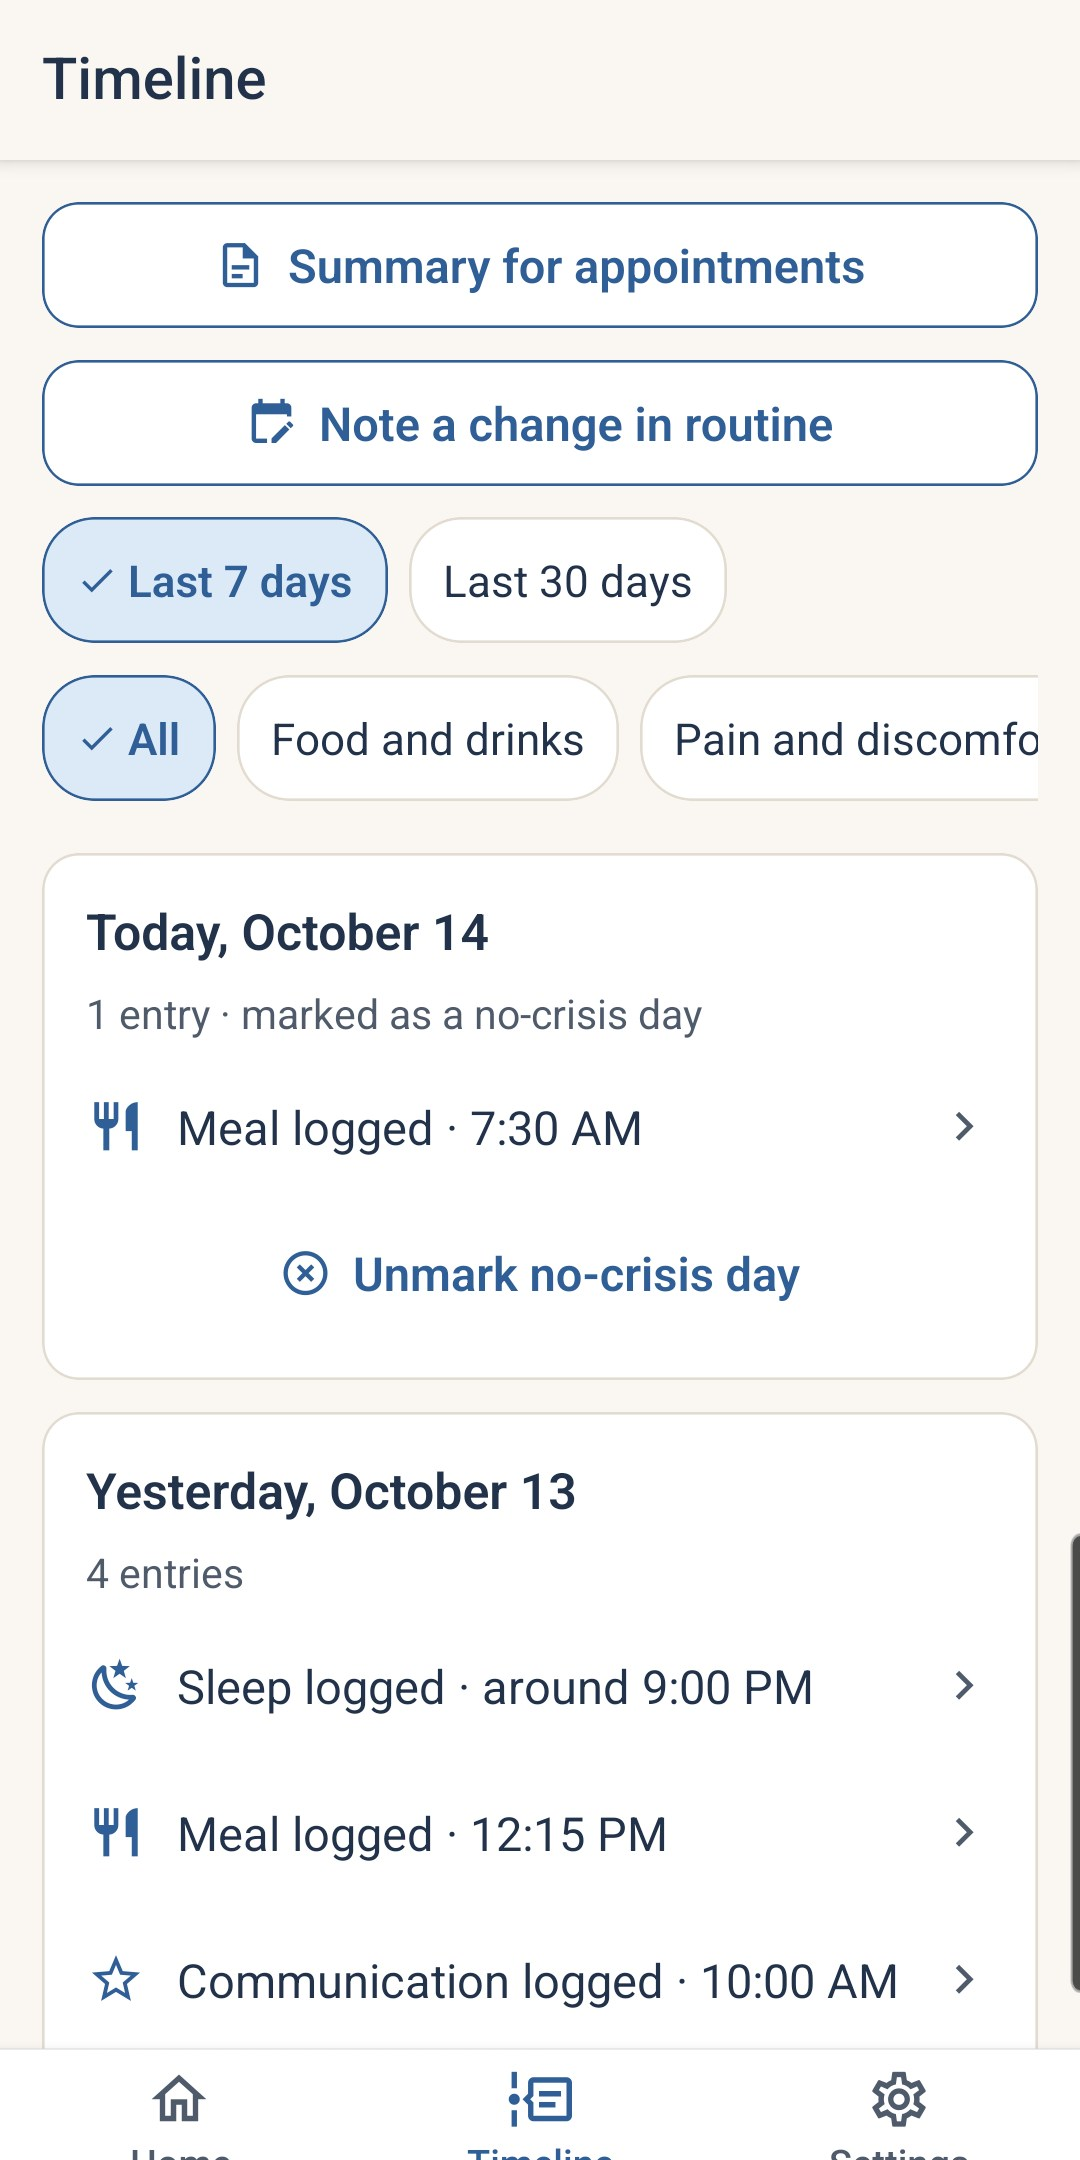
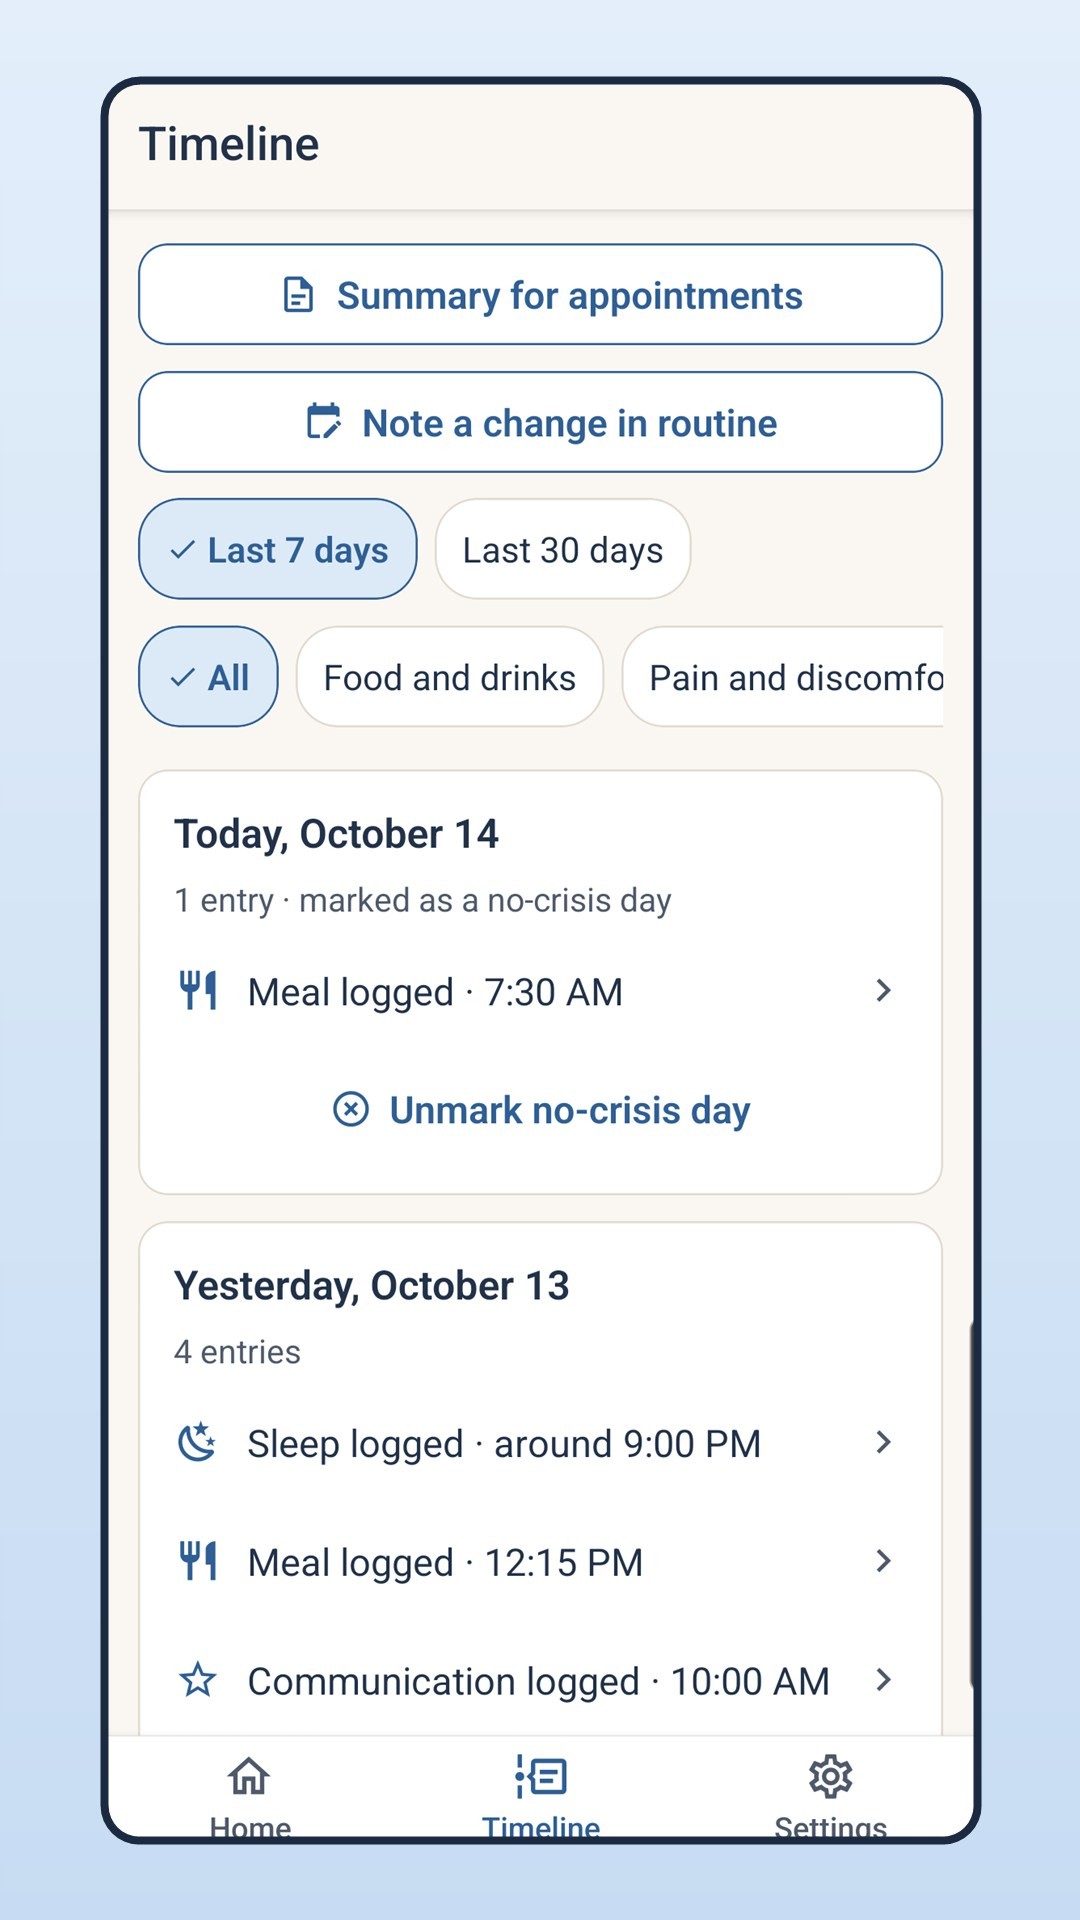
fix(lojas): capturas em 9:16, como o Play Console pede

diff --git a/apps/mobile/store-assets/README.md b/apps/mobile/store-assets/README.md
@@ -7,6 +7,6 @@ Tudo aqui é público e vai para as fichas. Nada de dado real: as capturas usam 
 | `ficha-pt-BR.md`, `ficha-en.md`, `ficha-es.md` | Escritos à mão | Título até 30, descrição curta até 80 e completa até 4000 caracteres. Linguagem de diário e resumo; sem promessa de resultado, diagnóstico ou tratamento; aviso de que não é serviço médico nem de emergência (SAMU 192 só em pt-BR). |
 | `icone-512.png` | `ferramentas/icone/gerar_icone.mjs` | Ícone da Google Play, 512 × 512, sem canal alfa. Não editar à mão. |
 | `destaque-1024x500.png` | `ferramentas/icone/gerar_icone.mjs` | Imagem de destaque da Google Play, sem texto traduzível (serve aos três idiomas). |
-| `capturas/<idioma>/` | Capturas do app no Galaxy A52s, recortadas sem a barra de status | 1080 × 2160 (proporção 2:1, o limite da Play); a do PDF é a primeira página do resumo. Refazer quando a tela mudar. |
+| `capturas/<idioma>/` | Capturas do app no Galaxy A52s, sem as barras do sistema, centralizadas sobre o fundo da marca | 1080 × 1920 (9:16, como o Play Console pede); a do PDF é a primeira página do resumo. Refazer quando a tela mudar. |
 
 Público-alvo: adultos (familiares e cuidadores). O mascote aparece discreto nas capturas, para a ficha não ser lida como app infantil.
